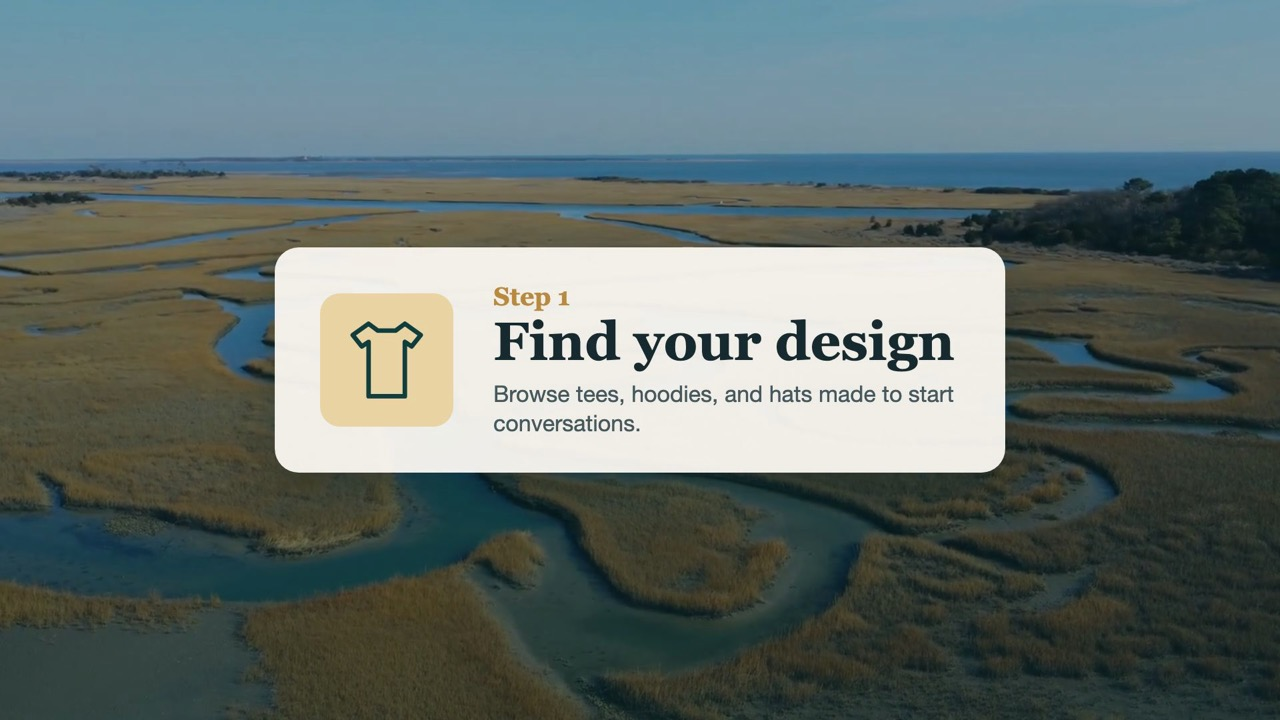
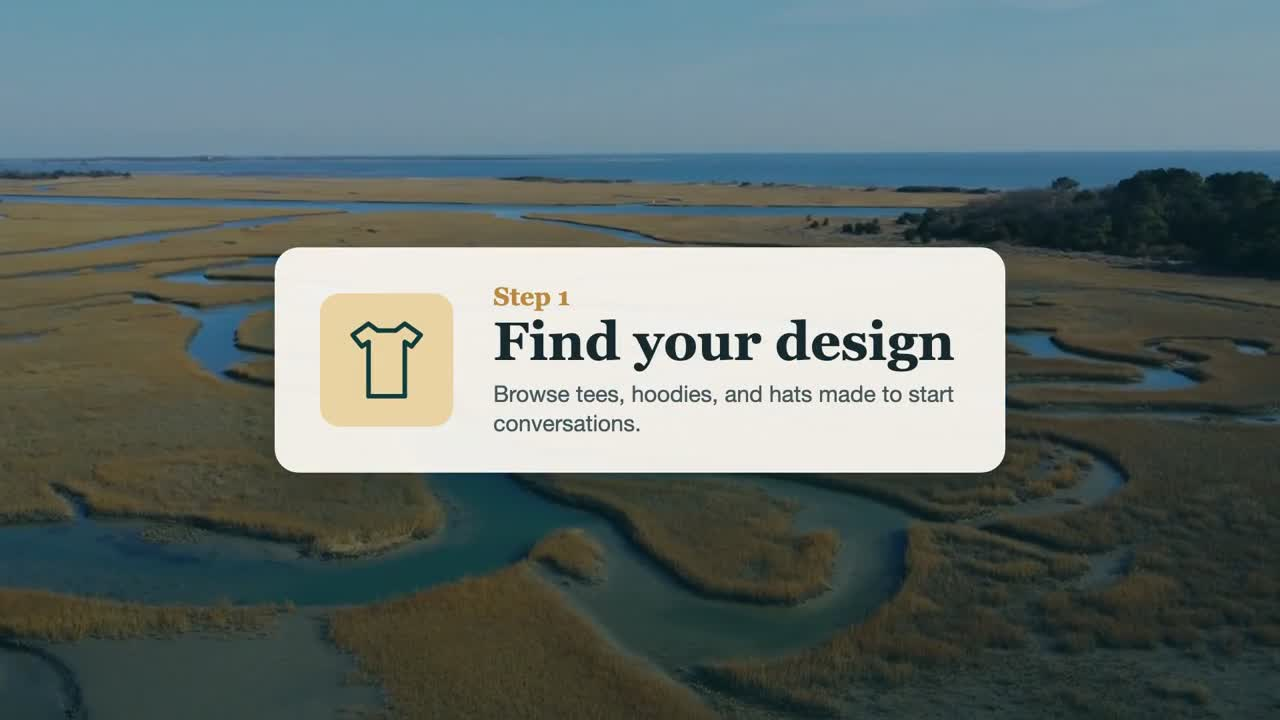
Smoother how-to video (native playback + loop); mobile fixes
- Video: play marsh footage at native speed with Loop (removes playbackRate
  judder), higher-quality encode
- Working mobile menu: SimpleHeader is now a client component with a real
  hamburger toggle + slide-down nav panel (was a dead button)
- Remove dead /search and /cart header links
- Prevent horizontal overflow on mobile (overflow-x hidden)
- Mobile hero: grow with content instead of clipping in 100dvh; 2x2 trust cards

diff --git a/src/app/globals.css b/src/app/globals.css
@@ -36,12 +36,17 @@
   box-sizing: border-box;
 }
 
+html {
+  overflow-x: hidden;
+}
+
 body {
   font-family: var(--font-sans);
   line-height: 1.6;
   color: var(--ink);
   background: #fff;
   -webkit-font-smoothing: antialiased;
+  overflow-x: hidden;
 }
 
 h1, h2, h3, .section-title, .hero-content h1, .product-info h2,
@@ -711,13 +716,62 @@ header {
   transition: all 0.3s ease;
 }
 
+.mobile-menu-btn .bar {
+  transform-origin: center;
+}
+.mobile-menu-btn .bar-1-open {
+  transform: translateY(5px) rotate(45deg);
+}
+.mobile-menu-btn .bar-2-open {
+  opacity: 0;
+}
+.mobile-menu-btn .bar-3-open {
+  transform: translateY(-5px) rotate(-45deg);
+}
+
+/* Mobile nav panel */
+.mobile-nav {
+  display: none;
+  flex-direction: column;
+  background: rgba(255, 255, 255, 0.98);
+  backdrop-filter: blur(20px);
+  border-bottom: 1px solid var(--line);
+  overflow: hidden;
+  max-height: 0;
+  transition: max-height 0.35s cubic-bezier(0.22, 1, 0.36, 1);
+}
+.mobile-nav-open {
+  max-height: 380px;
+}
+.mobile-nav-link {
+  font-family: var(--font-sans);
+  font-size: 1.1rem;
+  font-weight: 500;
+  color: var(--ink);
+  text-decoration: none;
+  padding: 1rem 1.5rem;
+  border-top: 1px solid var(--line);
+  transition: background 0.2s ease, color 0.2s ease;
+}
+.mobile-nav-link:first-child {
+  border-top: none;
+}
+.mobile-nav-link:hover {
+  background: var(--surface);
+  color: var(--ocean);
+}
+
 /* Mobile Navigation */
 @media (max-width: 1024px) {
   .main-nav {
     display: none;
   }
-  
+
   .mobile-menu-btn {
+    display: flex;
+  }
+
+  .mobile-nav {
     display: flex;
   }
 }
@@ -845,17 +899,38 @@ header {
 
 /* Responsive Design */
 @media (max-width: 768px) {
+  /* Let the hero grow with its content instead of clipping inside 100dvh */
+  .hero-section {
+    min-height: auto;
+    padding: 7rem 0 3.5rem;
+  }
+
   .hero-content h1 {
     font-size: 2.5rem;
   }
-  
+
   .hero-logo-main img {
-    height: 200px !important;
+    height: 170px !important;
   }
-  
+
   .hero-logo-background {
     width: 150%;
     height: 150%;
+  }
+
+  /* 2x2 trust cards so the hero isn't excessively tall */
+  .trust-indicators {
+    grid-template-columns: 1fr 1fr;
+    gap: 0.75rem;
+    margin-top: 2rem;
+  }
+
+  .trust-card {
+    padding: 1rem;
+  }
+
+  .trust-number {
+    font-size: 1.4rem;
   }
   
   .hero-buttons {

diff --git a/src/components/layout/SimpleHeader.tsx b/src/components/layout/SimpleHeader.tsx
@@ -1,19 +1,32 @@
+'use client'
+
+import { useState } from 'react'
 import Link from 'next/link'
 import Image from 'next/image'
 
+const navLinks = [
+  { href: '/shop', label: 'Shop All' },
+  { href: '/shop/hats', label: 'Hats' },
+  { href: '/collections', label: 'Collections' },
+  { href: '/story', label: 'Our Story' },
+  { href: '/contact', label: 'Contact' },
+]
+
 export default function SimpleHeader() {
+  const [open, setOpen] = useState(false)
+
   return (
     <header>
       <div className="header-content">
         {/* Logo */}
-        <Link href="/" className="logo">
+        <Link href="/" className="logo" onClick={() => setOpen(false)}>
           <div className="logo-image">
             <Image
               src="/salted_soul_logo.webp"
               alt="Salted Soul"
               width={60}
               height={60}
-              style={{width: 'auto', height: '60px'}}
+              style={{ width: 'auto', height: '60px' }}
             />
           </div>
           <div className="logo-text">
@@ -22,39 +35,35 @@ export default function SimpleHeader() {
           </div>
         </Link>
 
-        {/* Navigation */}
+        {/* Desktop navigation */}
         <nav className="main-nav">
-          <Link href="/shop" className="nav-link">
-            Shop All
-          </Link>
-          <Link href="/shop/hats" className="nav-link">
-            Hats
-          </Link>
-          <Link href="/collections" className="nav-link">
-            Collections
-          </Link>
-          <Link href="/story" className="nav-link">
-            Our Story
-          </Link>
-          <Link href="/contact" className="nav-link">
-            Contact
-          </Link>
+          {navLinks.map((l) => (
+            <Link key={l.href} href={l.href} className="nav-link">
+              {l.label}
+            </Link>
+          ))}
         </nav>
 
-        {/* Actions */}
-        <div className="header-actions">
-          <Link href="/search" className="header-action">
-            🔍
+        {/* Mobile menu toggle */}
+        <button
+          className="mobile-menu-btn"
+          aria-label={open ? 'Close menu' : 'Open menu'}
+          aria-expanded={open}
+          onClick={() => setOpen((v) => !v)}
+        >
+          <span className={open ? 'bar bar-1-open' : 'bar'} />
+          <span className={open ? 'bar bar-2-open' : 'bar'} />
+          <span className={open ? 'bar bar-3-open' : 'bar'} />
+        </button>
+      </div>
+
+      {/* Mobile menu panel */}
+      <div className={`mobile-nav ${open ? 'mobile-nav-open' : ''}`}>
+        {navLinks.map((l) => (
+          <Link key={l.href} href={l.href} className="mobile-nav-link" onClick={() => setOpen(false)}>
+            {l.label}
           </Link>
-          <Link href="/cart" className="header-action">
-            🛒
-          </Link>
-          <button className="mobile-menu-btn">
-            <span></span>
-            <span></span>
-            <span></span>
-          </button>
-        </div>
+        ))}
       </div>
     </header>
   )